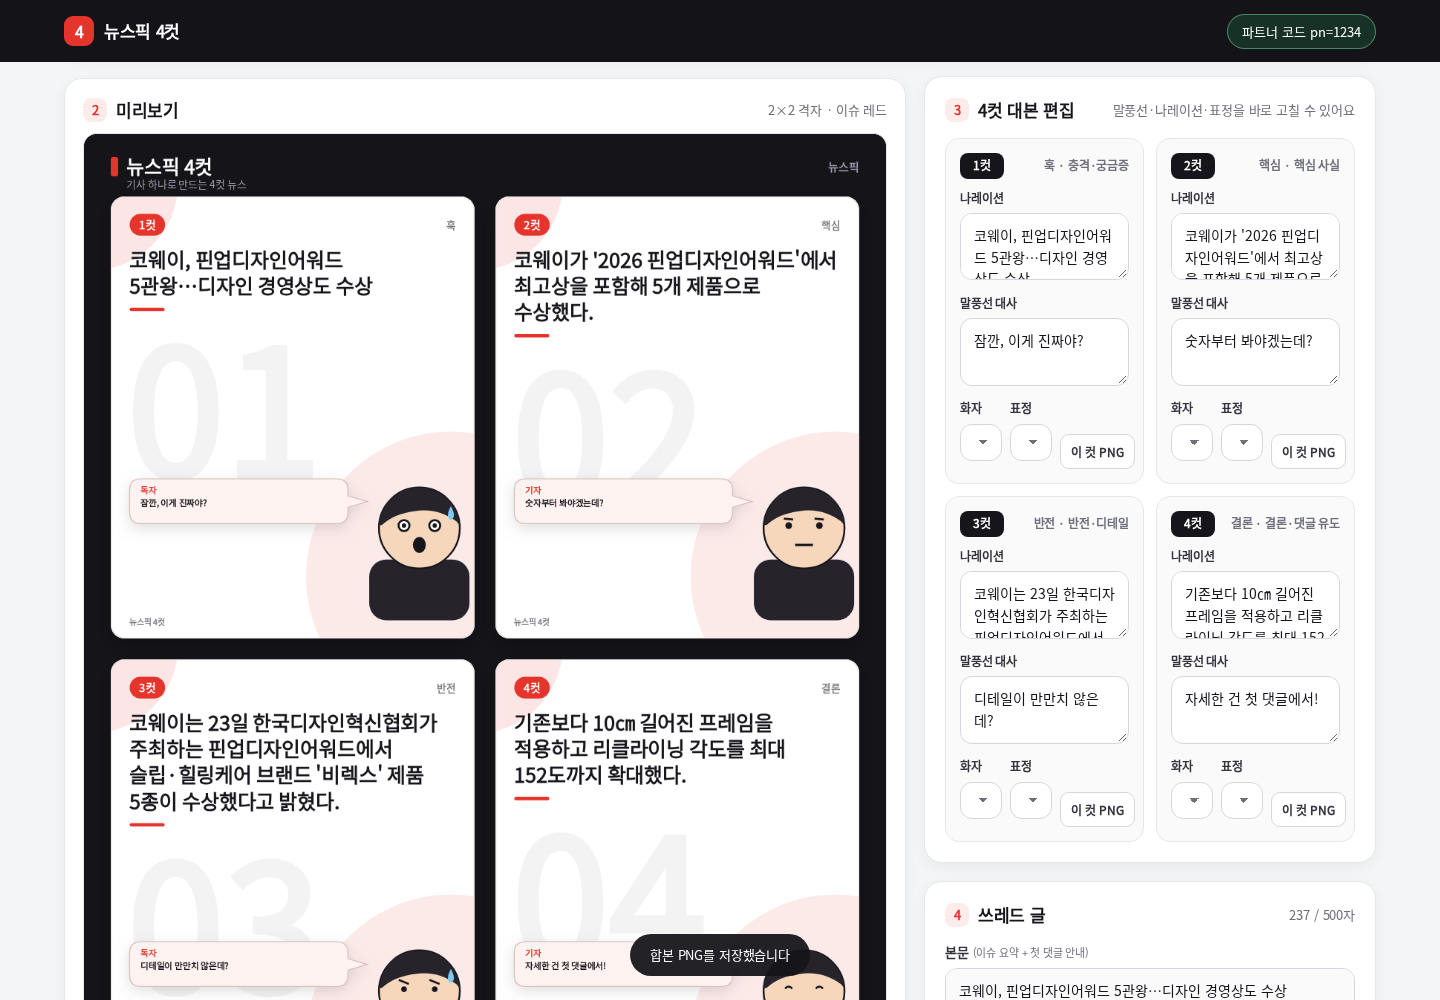
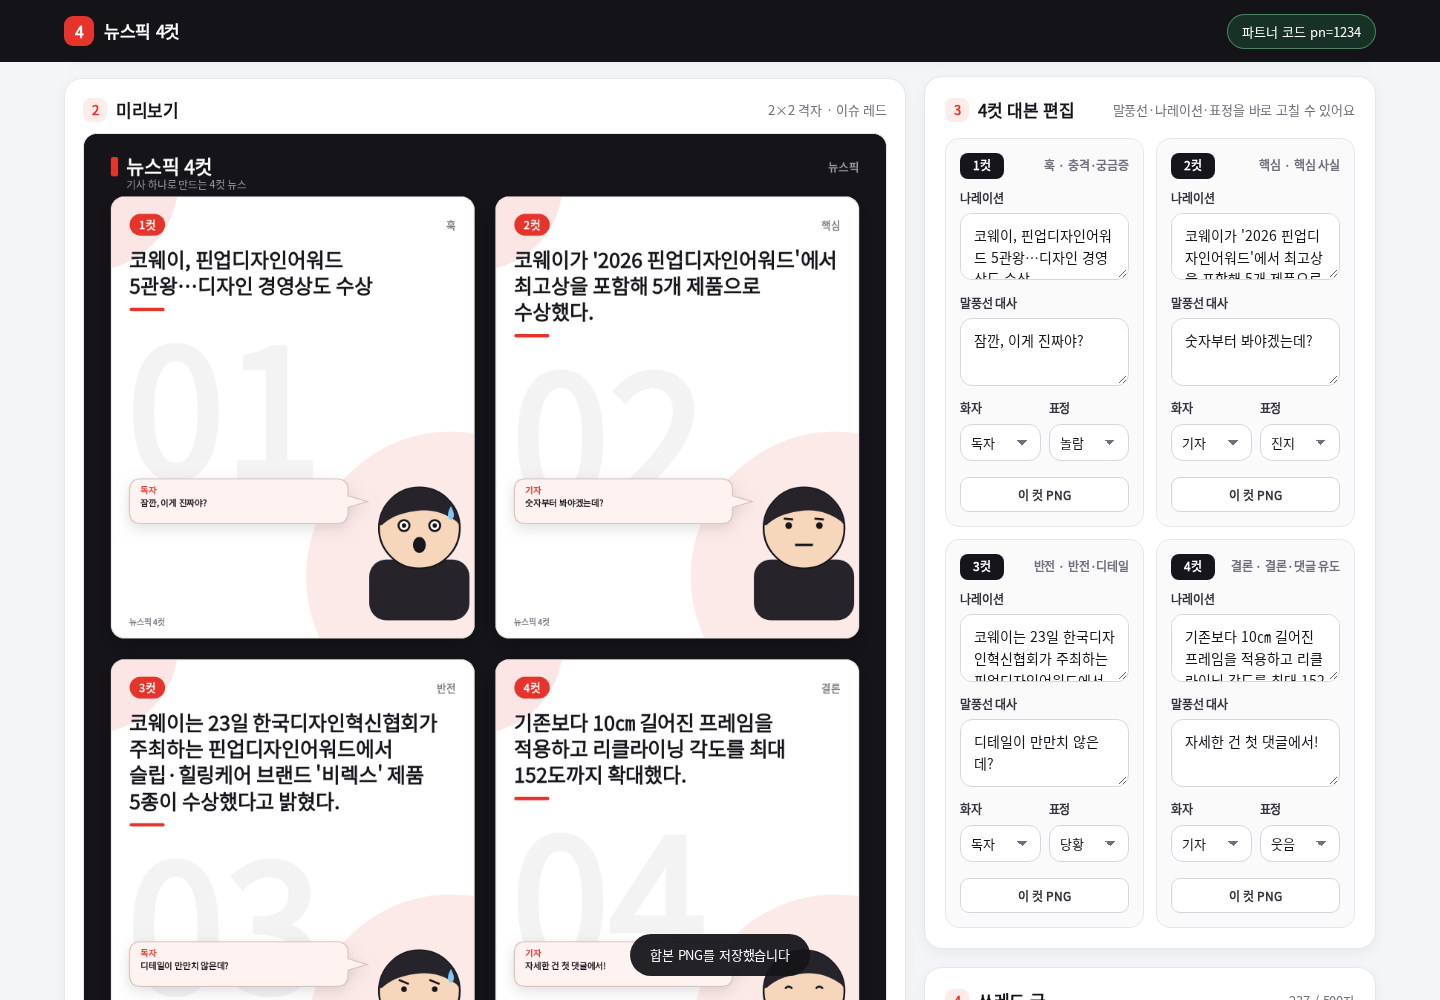
정적 자산 캐시 무효화용 버전 쿼리 추가

diff --git a/index.html b/index.html
@@ -7,7 +7,7 @@
   <meta name="description" content="뉴스픽 기사 링크를 넣으면 4컷 만화 대본·이미지·쓰레드 본문·첫 댓글 링크까지 한 번에 만들어 주는 무료 도구입니다." />
   <meta name="theme-color" content="#141419" />
   <link rel="icon" href="assets/favicon.svg" type="image/svg+xml" />
-  <link rel="stylesheet" href="assets/style.css" />
+  <link rel="stylesheet" href="assets/style.css?v=2" />
 </head>
 <body>
   <header class="topbar">
@@ -224,6 +224,6 @@
 
   <div id="toast" class="toast" role="status" aria-live="polite"></div>
 
-  <script type="module" src="assets/app.js"></script>
+  <script type="module" src="assets/app.js?v=2"></script>
 </body>
 </html>
